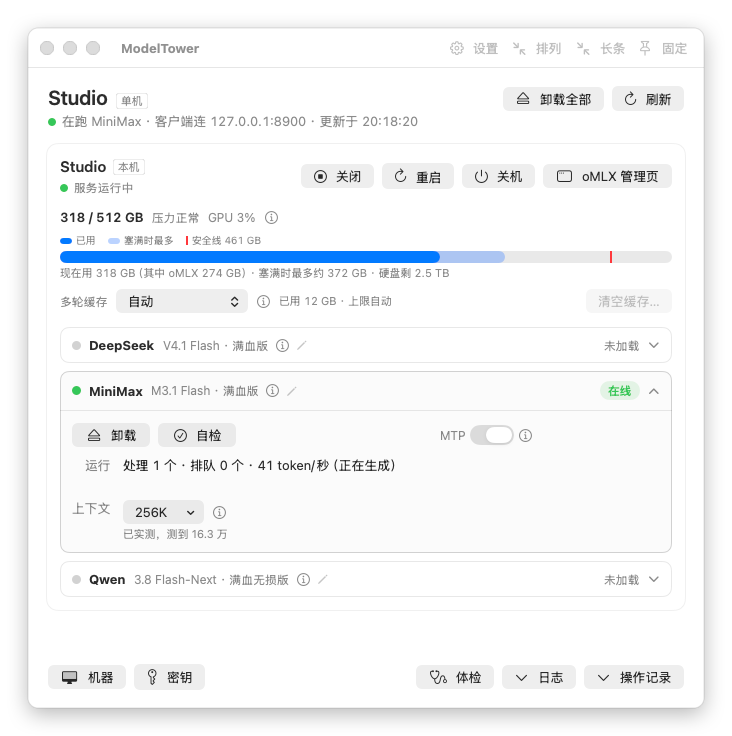
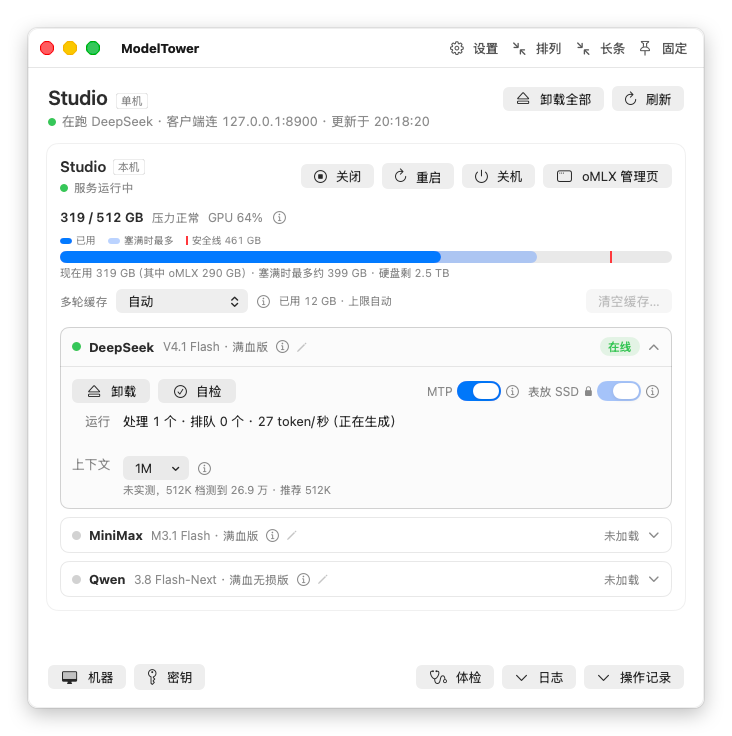
docs: 主图换成 DeepSeek 满血版在线（上下文 1M，MTP 和表放 SSD 都开着）

diff --git a/README.md b/README.md
@@ -10,7 +10,7 @@ Install the engine, pick a model, load it with one click, let it test itself, an
 
 [简体中文](README.zh-CN.md) · [Guide](docs/guide.en.md) · [FAQ](docs/faq.en.md) · [Changelog](CHANGELOG.md)
 
-<img src="docs/images/main.png" width="732" alt="ModelTower main window: MiniMax online on a 512 GB Mac, with the memory bar showing Used, Most when full and the Safety line">
+<img src="docs/images/main.png" width="732" alt="ModelTower main window: DeepSeek at full precision online on a 512 GB Mac with a 1M context, MTP and Tables on SSD both on, and the memory bar showing Used, Most when full and the Safety line">
 
 <sub>The main window (the numbers are sample data). Measured on a 512 GB Mac Studio (M3 Ultra): DeepSeek V4.1 Flash at full precision, about 330 GB, loaded in 53 seconds and passed its self-test.</sub>
 

diff --git a/README.zh-CN.md b/README.zh-CN.md
@@ -10,7 +10,7 @@
 
 [English](README.md) · [操作指南](docs/guide.zh-CN.md) · [常见问题](docs/faq.zh-CN.md) · [更新记录](CHANGELOG.md)
 
-<img src="docs/images/main.png" width="732" alt="ModelTower 主窗口：一台 512 GB 的 Mac 上 MiniMax 在线，内存条标着已用、塞满时最多和安全线">
+<img src="docs/images/main.png" width="732" alt="ModelTower 主窗口：一台 512 GB 的 Mac 上 DeepSeek 满血版在线，上下文 1M，MTP 和表放 SSD 都开着，内存条标着已用、塞满时最多和安全线">
 
 <sub>主窗口（图中数字是示例）。实测：512 GB 的 Mac Studio（M3 Ultra）上，DeepSeek V4.1 Flash 满血版约 330 GB，53 秒加载完并通过自检。</sub>
 
